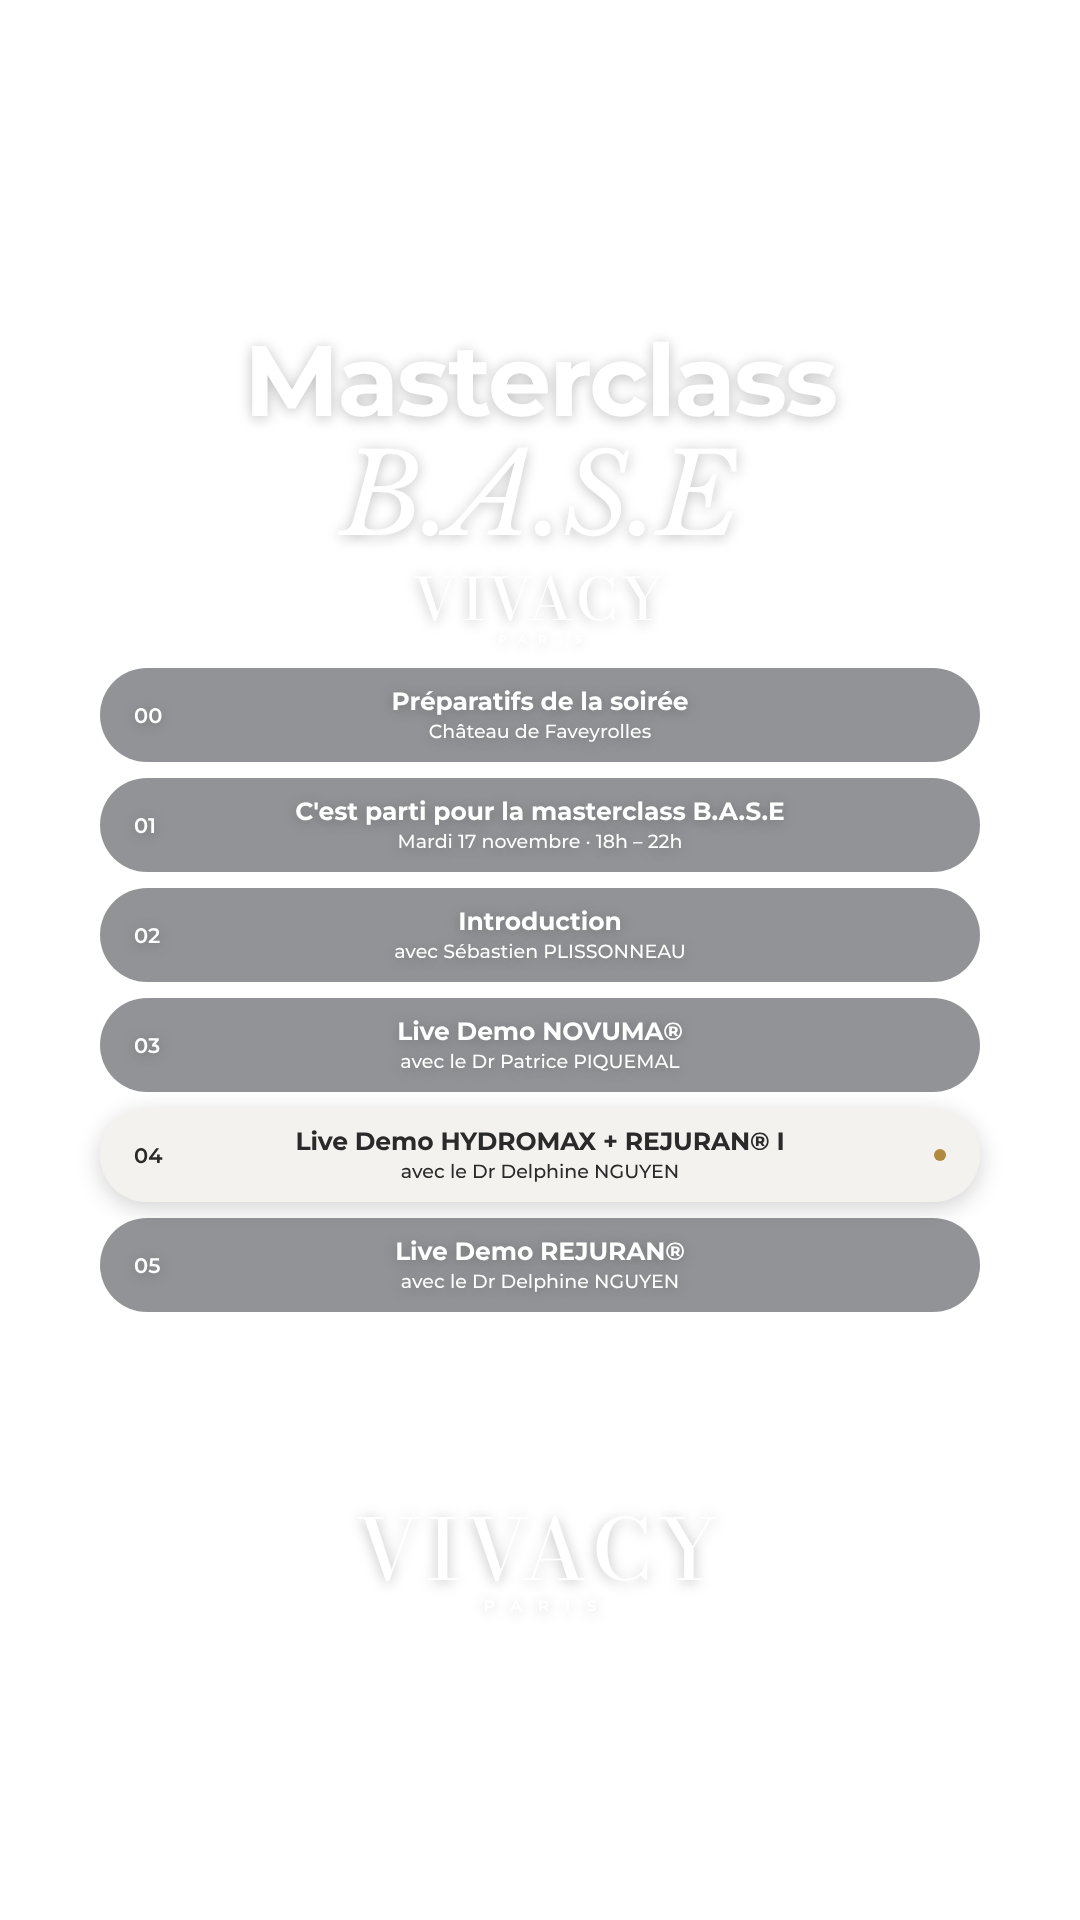
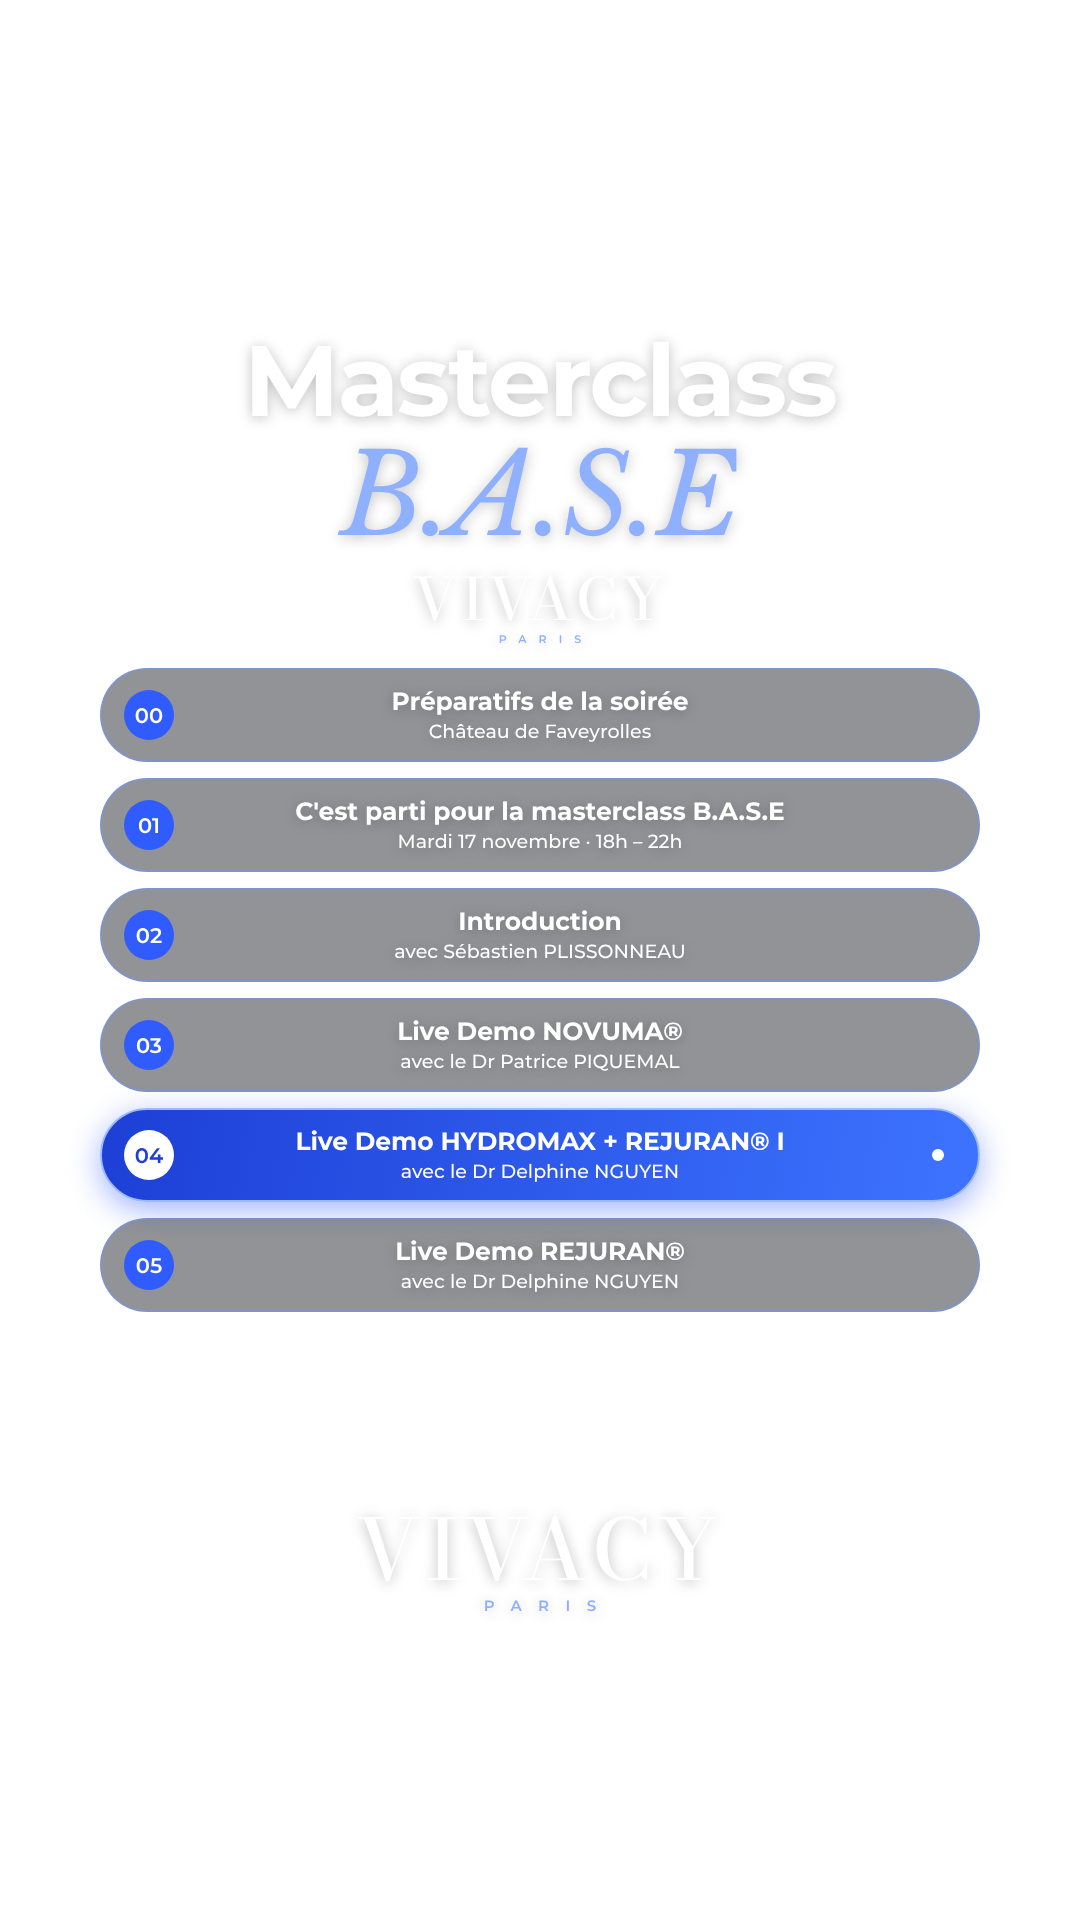
Add blue accents to Masterclass B.A.S.E chapter overlays
Claude-Session: https://claude.ai/code/session_01H2FbvPkFYuJqWfUGTNFBXR

Changed region(s): [[0.0917, 0.5312, 0.9167, 0.6875], [0.3056, 0.2188, 0.7028, 0.2812], [0.0917, 0.3438, 0.1833, 0.5]]

diff --git a/stories/vivacy/chapitres.html b/stories/vivacy/chapitres.html
@@ -28,6 +28,16 @@
   .foot { position:absolute; top:1490px; left:0; right:0; text-align:center; }
   .foot .v { font-size:84px; }
   .foot .p { font-size:15px; }
+  /* touches de bleu */
+  .base { color:#8fb0ff; }
+  .head .logo .p, .foot .p { color:#8fb0ff; }
+  .pill { border:2px solid rgba(110,150,255,.45); }
+  .pill .n { left:22px; width:50px; height:50px; border-radius:50%; background:#2f5bff; color:#fff;
+             display:flex; align-items:center; justify-content:center; text-shadow:none; }
+  .pill.on { background:linear-gradient(100deg,#1d3fd6,#3d74ff); color:#fff; border-color:#9dbaff;
+             box-shadow:0 8px 30px rgba(47,91,255,.45); }
+  .pill.on .n { background:#fff; color:#1d3fd6; }
+  .pill.on::after { background:#fff; }
 </style>
 </head>
 <body>
